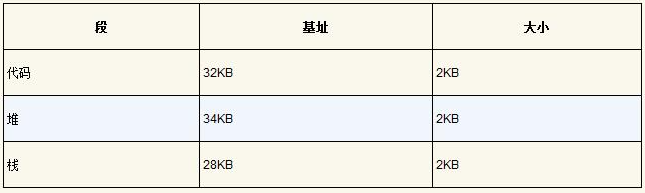
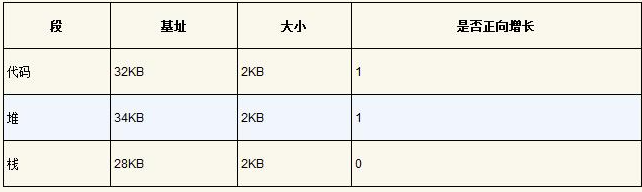
feat: update

diff --git a/docs/linux/os-introduction.md b/docs/linux/os-introduction.md
@@ -643,7 +643,7 @@ free(x);
 
 ### 机制：地址转换
 
-关键问题：如何高效、灵活地虚拟化内存
+> 关键问题：如何高效、灵活地虚拟化内存
 
 如何实现高效的内存虚拟化？如何提供应用程序所需的灵活性？如何保持控制应用程序可访问的内存位置，从而确保应用程序的内存访问受到合理的限制？如何高效地实现这一切？
 
@@ -700,9 +700,9 @@ free(x);
 
 为了更好地利用物理内存，避免内部碎片。第一次尝试是将基址加界限的概念稍稍泛化，得到**分段**的概念，
 
-#### 分段
+### 分段
 
-关键问题：怎样支持大地址空间，同时栈和堆之间（可能）有大量空闲空间？
+> 关键问题：怎样支持大地址空间，同时栈和堆之间（可能）有大量空闲空间？
 
 为了解决这个问题，分段的概念应运而生。在 MMU 中引入不止一个基址和界限寄存器对，而是给地址空间内的每个逻辑段一对。一个段只是地址空间里的一个连续定长的区域，在典型的地址空间里有 3 个逻辑不同的段：代码、栈和堆。分段的机制使得操作系统能够将不同的段放到不同的物理内存区域，从而避免了虚拟地址空间中的未使用部分占用物理内存。
 
@@ -714,13 +714,149 @@ free(x);
 
 ![](../images/segment-reg.png)
 
-#### 空闲空间管理
+如果试图访问非法的地址，会导致段异常（segmentation violation）或段错误（segmentation fault）。
 
-#### 分页
+分段地址硬件转换逻辑
 
-#### 分页：快速地址转换（TLB）
+```
+// get top 2 bits of 14-bit VA
+Segment = (VirtualAddress & SEG_MASK) >> SEG_SHIFT
+// now get offset
+Offset = VirtualAddress & OFFSET_MASK
+if (Offset >= Bounds[Segment])
+    RaiseException(PROTECTION_FAULT)
+else
+    PhysAddr = Base[Segment] + Offset
+    Register = AccessMemory(PhysAddr)
+```
 
-#### 分页：较小的表
+栈是反向增长的，因此转换时还得知道段的增长方向。
+
+分段可以支持共享。要节省内存，有时候在地址空间之间共享（share）某些内存段是有用的。尤其是，**代码共享**很常见。
+
+为了支持共享，需要一些额外的硬件支持，这就是保护位（protection bit）。通过将代码段标记为只读，同样的代码可以被多个进程共享，而不用担心破坏隔离。
+
+![](../images/segment-reg-with-protection.png)
+
+有了保护位，前面描述的硬件算法也必须改变。除了检查虚拟地址是否越界，硬件还需要检查特定访问是否允许。
+
+分段对操作系统提出了新的要求，1. 上下文切换时要保存和恢复各个段寄存器中的内容；2. 管理物理内容的空闲空间
+
+由于段的大小不一，会导致内存的**外部碎片**问题。
+
+该问题的一种解决方案是紧凑（compact）物理内存，重新安排原有的段。整理内存需要占用大量的处理器时间。
+
+一种更简单的做法是利用**空闲列表管理算法**，试图保留大的内存块用于分配。相关的算法可能有成百上千种，包括传统的最优匹配、最坏匹配（worst-fit）、首次匹配以及像伙伴算法这样更复杂的算法。
+
+### 空闲空间管理
+
+如果要管理的空闲空间由大小不同的单元构成，管理就变得困难（而且有趣）。这种情况出现在用户级的内存分配库（如malloc()和free()），或者操作系统用分段（segmentation）的方式实现虚拟内存。
+
+> 关键问题：如何管理空闲空间
+
+要满足变长的分配请求，应该如何管理空闲空间？什么策略可以让碎片最小化？不同方法的时间和空间开销如何？
+
+在堆上管理空闲空间的数据结构通常称为**空闲列表**。该结构包含了管理内存区域中所有空闲块的引用。
+
+#### 追踪已分配空间的大小
+
+`free(void *ptr)` 接口没有块大小的参数。大多数分配程序都会在头块（header）中保存一点额外的信息，它在内存中，通常就在返回的内存块之前
+
+```c++
+typedef struct header_t { 
+    int size;
+    int magic;
+} header_t;
+```
+
+```c++
+void free(void *ptr) {
+    header_t *hptr = (void *)ptr - sizeof(header_t);
+}
+```
+
+获得头块的指针后，库可以很容易地确定幻数是否符合预期的值，作为正常性检查（`assert(hptr->magic == 1234567)`），并简单计算要释放的空间大小（即头块的大小加区域长度）。
+
+![](../images/heap-header.png)
+
+> 因此，如果用户请求N字节的内存，库不是寻找大小为N的空闲块，而是寻找N加上头块大小的空闲块。
+
+#### 嵌入空闲列表
+
+空闲链表节点：
+
+```c++
+typedef struct  node_t { 
+    int    size;
+    struct  node_t *next;
+} node_t;
+```
+
+堆内存初始化
+
+```c++
+// mmap() returns a pointer to a chunk of free space 
+node_t *head = mmap(NULL, 4096, PROT_READ|PROT_WRITE,
+                   MAP_ANON|MAP_PRIVATE, -1, 0);
+head->size    = 4096 - sizeof(node_t); 
+head->next    = NULL;
+```
+
+![](../images/heap-state0.png)
+
+一次分配后
+
+![](../images/heap-state1.png)
+
+三次分配后
+
+![](../images/heap-state2.png)
+
+一次释放后
+
+![](../images/heap-state3.png)
+
+三次释放后
+
+![](../images/heap-state3.png)
+
+可见空间列表变得非常破碎，解决方案很简单：遍历列表，合并相邻块。
+
+#### 让堆增长
+
+大多数传统的分配程序会从很小的堆开始，当空间耗尽时，再向操作系统申请更大的空间。这意味着它们进行了某种系统调用（例如，大多数UNIX系统中的`sbrk`）
+
+#### 基本策略
+
+理想的分配程序可以同时保证快速和碎片最小化。
+
+- 最优匹配
+- 最差匹配
+- 首次匹配
+- 下次匹配
+
+#### 其它方式
+
+分离空闲列表：如果某个应用程序经常申请一种（或几种）大小的内存空间，那就用一个独立的列表，只管理这样大小的对象。其他大小的请求都交给更通用的内存分配程序。
+
+slab 分配程序采用了分离空闲列表
+
+因为合并对分配程序很关键， 一个好例子就是二分伙伴分配程序（binary buddy allocator）。
+
+### 分页
+
+由于不同长度的分段，会导致内存空间存在碎片化问题。
+
+因此，值得考虑第二种方法：将空间分割成固定长度的分片。在虚拟内存中，我们称这种思想为**分页**。
+
+> 关键问题：如何通过页来实现虚拟内存
+
+如何通过页来实现虚拟内存，从而避免分段的问题？基本技术是什么？如何让这些技术运行良好，并尽可能减少空间和时间开销？
+
+
+### 分页：快速地址转换（TLB）
+
+### 分页：较小的表
 
 ### 超越物理内存：机制
 

diff --git a/docs/other/funny.md b/docs/other/funny.md
@@ -9,4 +9,5 @@
 
 - [SadServers](https://sadservers.com/): 一个开源的 Linux 服务器管理题库。它会在浏览器里面创建服务器实例，让用户自己动手解决问题
 - [Fly.io](https://fly.io/): 可以免费部署小型 docker 镜像的网站。
-- [ChatGPT](https://gpt.chatapi.art/): 聊天机器人国内代理
+- [ChatGPT](https://chat.openai.com/): 聊天机器人
+- [ChatGPT playground](https://platform.openai.com/playground?mode=chat): 访问速度较快
